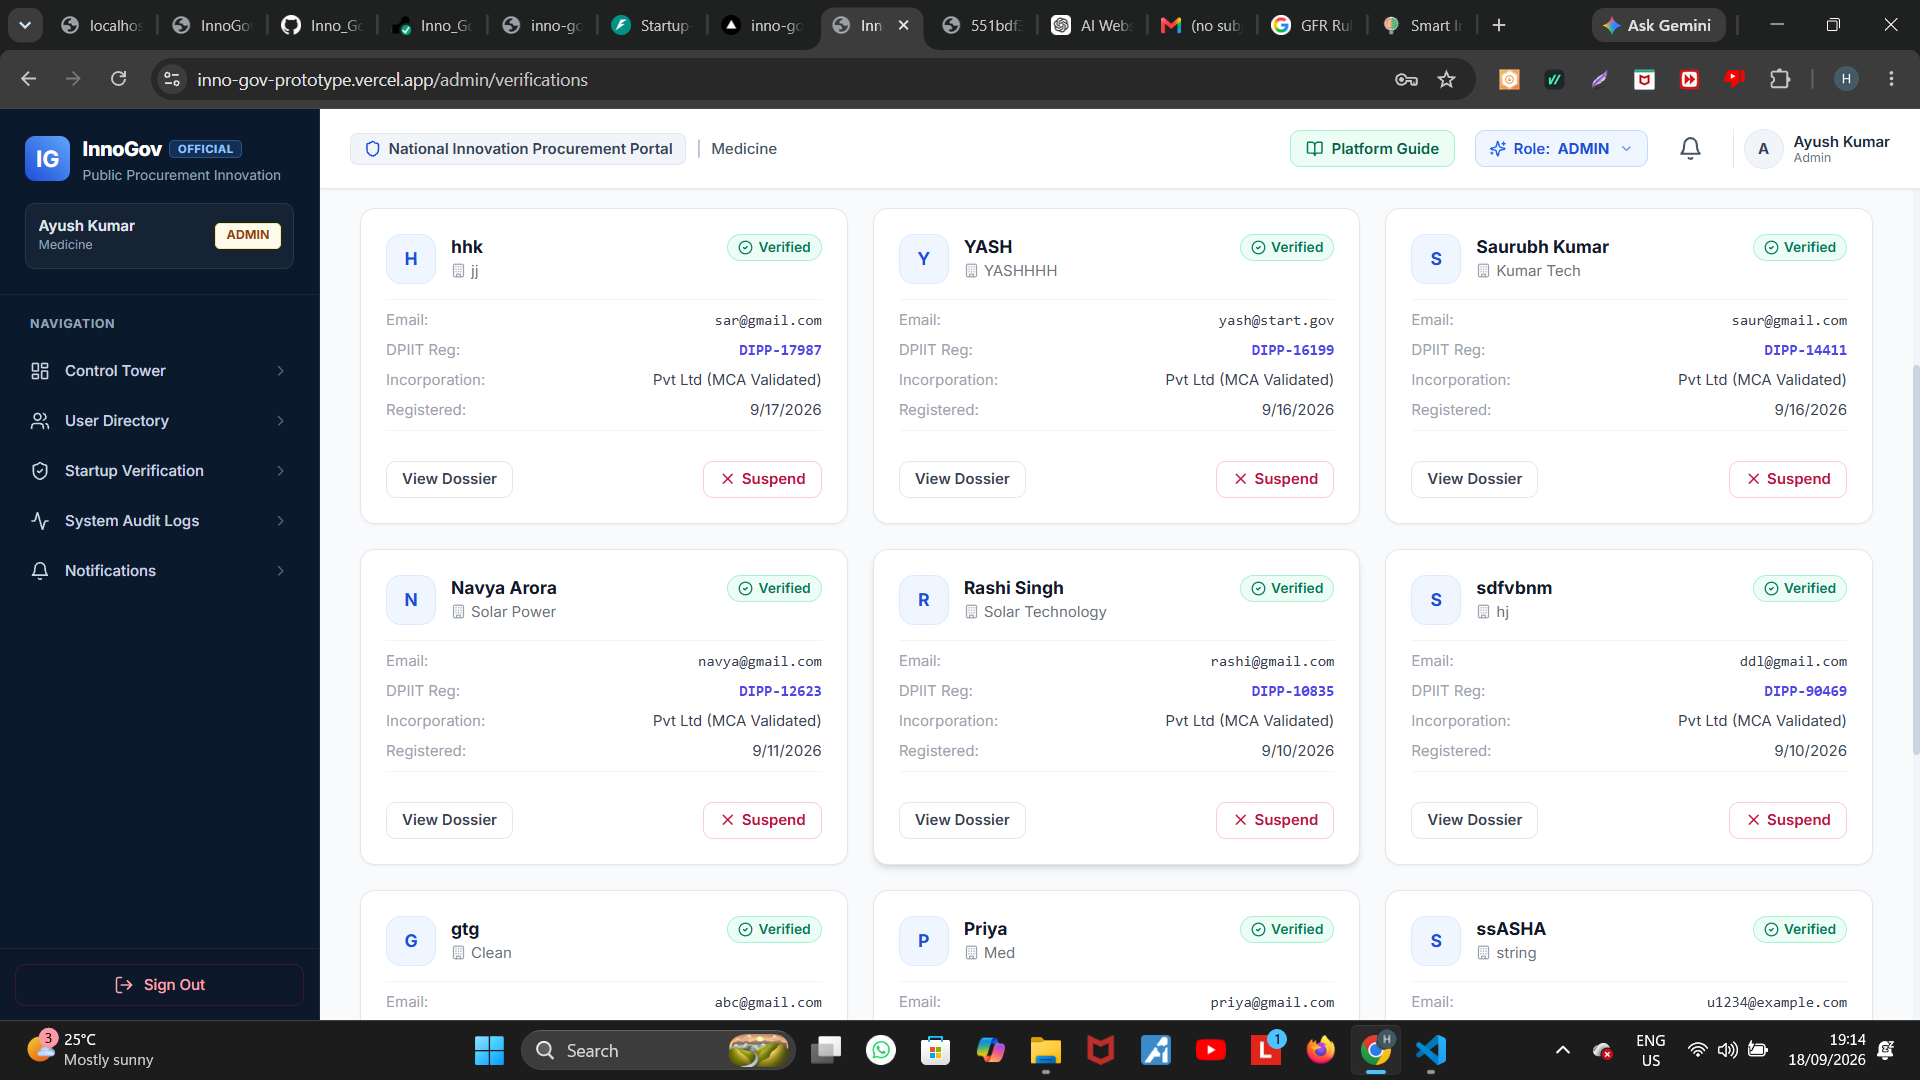
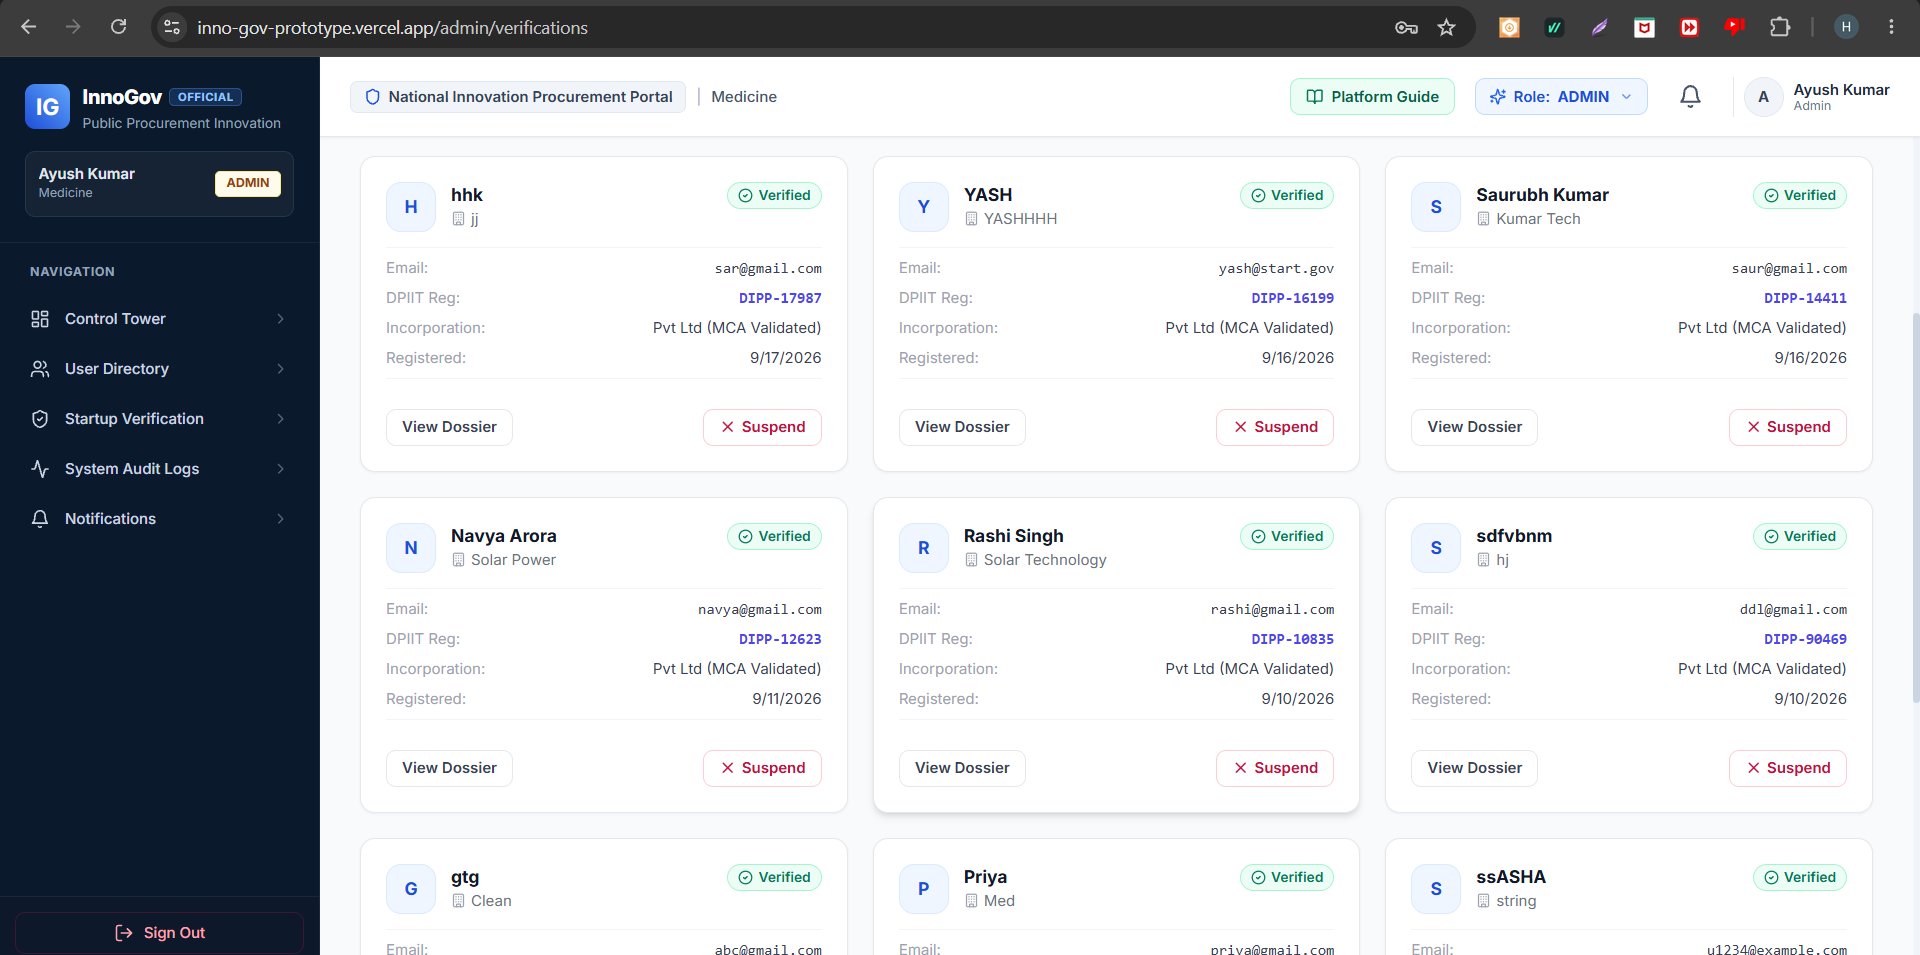
Fix evaluator guide spacing and image display

diff --git a/frontend/src/components/common/UserManualModal.tsx b/frontend/src/components/common/UserManualModal.tsx
@@ -65,7 +65,7 @@ export const UserManualModal: React.FC<UserManualModalProps> = ({
           </button>
         </div>
 
-        <div className="mx-6 mt-4 p-3 rounded-xl bg-amber-50 border border-amber-200 text-amber-950 text-xs leading-relaxed">
+        <div className="mx-6 mt-4 mb-4 p-3 rounded-xl bg-amber-50 border border-amber-200 text-amber-950 text-xs leading-relaxed">
           <strong className="block mb-1">Review access</strong>
           SIH evaluators who do not want to register can sign in with the provided review credentials:
           <span className="block mt-1"><strong>Startup</strong> | <strong>Email:</strong> <span className="font-mono">navya@gmail.com</span> | <strong>Password:</strong> <span className="font-mono">Password123</span></span>
@@ -75,7 +75,7 @@ export const UserManualModal: React.FC<UserManualModalProps> = ({
         </div>
 
         {/* Role Switcher Tabs */}
-        <div className="bg-slate-50 border-b border-slate-200 px-6 py-3 flex items-center gap-2 overflow-x-auto">
+        <div className="mt-1 bg-slate-50 border-y border-slate-200 px-6 py-3 flex items-center gap-2 overflow-x-auto">
           <button
             onClick={() => setActiveRole('STARTUP')}
             className={`flex items-center gap-2 px-4 py-2 rounded-xl text-xs font-bold transition-all ${
@@ -126,7 +126,7 @@ export const UserManualModal: React.FC<UserManualModalProps> = ({
         </div>
 
         {/* Content Area */}
-        <div className="p-6 overflow-y-auto space-y-6 text-slate-700 text-xs leading-relaxed">
+        <div className="min-h-0 flex-1 p-6 overflow-y-auto space-y-6 text-slate-700 text-xs leading-relaxed">
           {/* STARTUP GUIDE */}
           {activeRole === 'STARTUP' && (
             <div className="space-y-6">
@@ -374,7 +374,7 @@ export const UserManualModal: React.FC<UserManualModalProps> = ({
                 <img
                   src="/Screenshot%202026-09-18%20191319.png"
                   alt="InnoGov administrator control tower dashboard"
-                  className="w-full rounded-xl border border-slate-200 shadow-sm"
+                  className="block w-full max-h-[420px] object-contain object-top rounded-xl border border-slate-200 shadow-sm bg-white"
                 />
                 <p className="text-[11px] text-slate-500">
                   Control Tower view showing platform governance, user distribution, procurement pipeline health, and audit activity
@@ -382,7 +382,7 @@ export const UserManualModal: React.FC<UserManualModalProps> = ({
                 <img
                   src="/Screenshot%20(611).png"
                   alt="InnoGov administrator startup verification dashboard"
-                  className="w-full rounded-xl border border-slate-200 shadow-sm"
+                  className="block w-full max-h-[420px] object-contain object-top rounded-xl border border-slate-200 shadow-sm bg-white"
                 />
                 <p className="text-[11px] text-slate-500">
                   Startup Verification view showing verified startup dossiers, registration details, and administrative review actions
